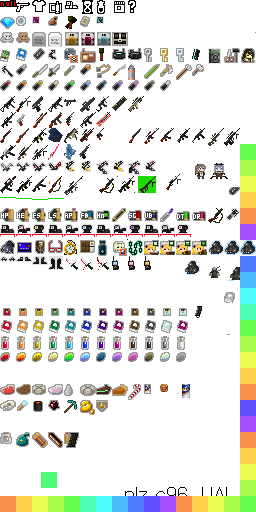
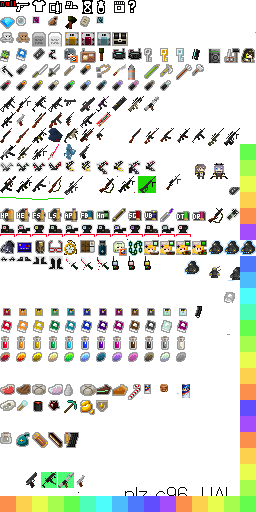
썬더 추가 및 텍스트 수정

Changed region(s): [[0.0938, 0.9062, 0.3438, 0.9688], [0.125, 0.1875, 0.1875, 0.25], [0.5625, 0.1875, 0.625, 0.2188]]

diff --git a/core/src/main/java/com/gfpixel/gfpixeldungeon/scenes/ChangesScene.java b/core/src/main/java/com/gfpixel/gfpixeldungeon/scenes/ChangesScene.java
@@ -173,12 +173,12 @@ public class ChangesScene extends PixelScene {
 						"_-_ 신규무기 게파드와 SRS가 추가됬습니다. 게파드는 무기를 장착하고 있을때 50구경의 데미지가 크게 올라갑니다.\n\n" +
 						"_-_ 소이탄, EMP탄,유탄이 삭제되고 50구경라는 아이템으로 바뀌었습니다. 삭제된 EMP탄과 소이탄은 솥에서 50구경과 씨앗을 조합해 만들 수 있습니다.\n\n" +
 						"_-_ PG 가스탄이 붕괴액으로 바뀌었습니다. 기존의 독가스 대신 붕괴가스를 발사하며, 붕괴가스에 노출되면 산성효과와 비슷한 피해를 입게됩니다.\n\n" +
-						"_-_ UMP45와 M16A1의 데미지가 소폭 상승했습니다. M16A1은 추가로 강화 효율과 방어율이 소폭 상승했습니다."));
+						"_-_ UMP45와 M16A1의 데미지가 소폭 상승했습니다. M16A1은 기습불가와 느린 공격속도가 삭제됐고 추가로 강화 효율과 방어율이 소폭 상승했습니다."));
 
 		changes.addButton( new ChangeButton(Icons.get(Icons.SHPX), "개발 관련",
 				"_-_ \"시스템 변경\n\n" +
 
-						"_-_ UI가 크게 개편됬습니다! 좀더 소녀전선에 가까운 UI를 만들기 위해 노력했습니다.\n\n" +
+						"_-_ UI가 크게 개편됐습니다! 좀더 소녀전선에 가까운 UI를 만들기 위해 노력했습니다.\n\n" +
 						"_-_ 힘 포션이 드랍되지 않는 도전모드가 추가됬습니다.\n\n" +
 						"_-_  새로운 뱃지들이 추가됬습니다.\n\n" +
 						"_-_ 투척무기가 개편됬습니다. 많은 투척무기가 추가되었고, 투척무기에 내구도 시스템이 적용됬습니다.\n\n" +

diff --git a/core/src/main/java/com/gfpixel/gfpixeldungeon/journal/Catalog.java b/core/src/main/java/com/gfpixel/gfpixeldungeon/journal/Catalog.java
@@ -94,9 +94,11 @@ import com.gfpixel.gfpixeldungeon.items.weapon.melee.AWP;
 import com.gfpixel.gfpixeldungeon.items.weapon.melee.Dragunov;
 import com.gfpixel.gfpixeldungeon.items.weapon.melee.C96;
 import com.gfpixel.gfpixeldungeon.items.weapon.melee.Gepard;
+import com.gfpixel.gfpixeldungeon.items.weapon.melee.Lar;
 import com.gfpixel.gfpixeldungeon.items.weapon.melee.M9;
 import com.gfpixel.gfpixeldungeon.items.weapon.melee.M99;
 import com.gfpixel.gfpixeldungeon.items.weapon.melee.SRS;
+import com.gfpixel.gfpixeldungeon.items.weapon.melee.Thunder;
 import com.gfpixel.gfpixeldungeon.items.weapon.melee.Welrod;
 import com.gfpixel.gfpixeldungeon.items.weapon.melee.Dp;
 import com.gfpixel.gfpixeldungeon.items.weapon.melee.AK47;
@@ -171,6 +173,7 @@ public enum Catalog {
 		WEAPONS.seen.put( Dp.class,                   false);
 		WEAPONS.seen.put( SR3.class,                   false);
 		WEAPONS.seen.put( SRS.class,                   false);
+		WEAPONS.seen.put( Thunder.class,				false);
 		WEAPONS.seen.put( Boomerang.class,                  false);
 		WEAPONS.seen.put( M16.class,                 false);
 		WEAPONS.seen.put( M1911.class,                    false);
@@ -197,6 +200,7 @@ public enum Catalog {
 		WEAPONS.seen.put( M99.class,                     false);
 		WEAPONS.seen.put( SakuraBlade.class,                   false);
 		WEAPONS.seen.put( SaigaPlate.class,                false);
+		WEAPONS.seen.put( Lar.class,         			       false);
 		WEAPONS.seen.put( SAIGA.class,                        false);
 		WEAPONS.seen.put( Mg42.class,                     false);
 		WEAPONS.seen.put( Ntw20.class,                   false);

diff --git a/core/src/main/java/com/gfpixel/gfpixeldungeon/items/weapon/melee/Thunder.java b/core/src/main/java/com/gfpixel/gfpixeldungeon/items/weapon/melee/Thunder.java
@@ -27,41 +27,19 @@ import com.gfpixel.gfpixeldungeon.actors.mobs.Mob;
 import com.gfpixel.gfpixeldungeon.sprites.ItemSpriteSheet;
 import com.watabou.utils.Random;
 
-public class Dp extends MeleeWeapon {
+public class Thunder extends MeleeWeapon {
 
     {
-        image = ItemSpriteSheet.DP;
+        image = ItemSpriteSheet.THUNDER;
 
         tier = 1;
-        DLY = 0.2f; //1time 10hit
-        ACC = 0.6f;
+        ACC = 0.09f;
+        DLY = 2f;
     }
 
     @Override
     public int max(int lvl) {
-        return  Math.round(2.1f*(tier+1)) +    //5 base, down from 20
-                lvl*Math.round(0.5f*(tier+1));   //+1 per level, down from +2
+        return  Math.round(5.5f*(tier+10)) +    //5 base, down from 20
+                lvl*Math.round(3.5f*(tier+1));   //+1 per level, down from +2
     }
-
-    @Override
-    public int damageRoll(Char owner) {
-        if (owner instanceof Hero) {
-            Hero hero = (Hero)owner;
-            Char enemy = hero.enemy();
-            if (enemy instanceof Mob && ((Mob) enemy).surprisedBy(hero)) {
-                //deals 85% toward max to max on surprise, instead of min to max.
-                int diff = max() - min();
-                int damage = augment.damageFactor(Random.NormalIntRange(
-                        min() + Math.round(diff*0.4f),
-                        max()));
-                int exStr = hero.STR() - STRReq();
-                if (exStr > 0) {
-                    damage -= Random.IntRange(0, exStr);
-                }
-                return damage;
-            }
-        }
-        return super.damageRoll(owner);
-    }
-
 }

diff --git a/core/src/main/java/com/gfpixel/gfpixeldungeon/sprites/ItemSpriteSheet.java b/core/src/main/java/com/gfpixel/gfpixeldungeon/sprites/ItemSpriteSheet.java
@@ -150,17 +150,19 @@ public class ItemSpriteSheet {
 	public static final int SR3             = WEP_TIER1+6;
 	public static final int CANNON         	= WEP_TIER1+7;
 	public static final int SRS         	= WEP_TIER1+8;
+	public static final int THUNDER         	= WEP_TIER1+9;
 	
 	static{
 		assignItemRect(UMP45, 	15, 16);
 		assignItemRect(DP,     	15, 16);
-		assignItemRect(M9,   	11, 16);
+		assignItemRect(M9,   	14, 16);
 		assignItemRect(UMP40, 	16, 16);
 		assignItemRect(DAGGER,  12, 13);
 		assignItemRect(G11,     15, 16);
 		assignItemRect(SR3,     15, 16);
 		assignItemRect(CANNON,  15, 15);
 		assignItemRect(SRS, 	16, 16);
+		assignItemRect(THUNDER, 	15, 15);
 	}
 
 	private static final int WEP_TIER2      =                               xy(1, 8);   //8 slots
@@ -175,7 +177,7 @@ public class ItemSpriteSheet {
 	static{
 		assignItemRect(M16,      15, 16);
 		assignItemRect(M1911,        12, 14);
-		assignItemRect(M1903,           16, 16);
+		assignItemRect(M1903,           14, 16);
 		assignItemRect(M1A1,    16, 16);
 		assignItemRect(NAGANTREVOLVER,            13, 14);
 		assignItemRect(G36,            16, 16);

diff --git a/core/src/main/java/com/gfpixel/gfpixeldungeon/actors/hero/HeroClass.java b/core/src/main/java/com/gfpixel/gfpixeldungeon/actors/hero/HeroClass.java
@@ -58,6 +58,7 @@ import com.gfpixel.gfpixeldungeon.items.wands.WandOfMagicMissile;
 import com.gfpixel.gfpixeldungeon.items.weapon.melee.Cannon;
 import com.gfpixel.gfpixeldungeon.items.weapon.melee.G11;
 import com.gfpixel.gfpixeldungeon.items.weapon.melee.M9;
+import com.gfpixel.gfpixeldungeon.items.weapon.melee.Thunder;
 import com.gfpixel.gfpixeldungeon.items.weapon.melee.TowProto;
 import com.gfpixel.gfpixeldungeon.items.weapon.melee.Ump45;
 import com.gfpixel.gfpixeldungeon.items.weapon.melee.Welrod;
@@ -135,8 +136,7 @@ public enum HeroClass {
 			Dungeon.LimitedDrops.SCROLL_HOLDER.drop();
 
 			new Cannon().identify().collect();
-			new DriedRose().identify().collect();
-			new TowProto().identify().collect();
+            new Thunder().identify().collect();
 			new ScrollOfUpgrade().identify().quantity(5).collect();
 			new StoneOfEnchantment().quantity(100).collect();
 			new ScrollOfMagicalInfusion().identify().quantity(10).collect();

diff --git a/core/src/main/java/com/gfpixel/gfpixeldungeon/items/weapon/melee/Mg42.java b/core/src/main/java/com/gfpixel/gfpixeldungeon/items/weapon/melee/Mg42.java
@@ -16,7 +16,7 @@ public class Mg42 extends MeleeWeapon {
         image = ItemSpriteSheet.MG42;
 
         tier = 6;
-        ACC = 0.6f;
+        ACC = 0.3f;
         DLY = 0.1f;
     }
 
@@ -35,7 +35,7 @@ public class Mg42 extends MeleeWeapon {
                 //deals 85% toward max to max on surprise, instead of min to max.
                 int diff = max() - min();
                 int damage = augment.damageFactor(Random.NormalIntRange(
-                        min() + Math.round(diff*0.5f),
+                        min() + Math.round(diff*0.4f),
                         max()));
                 int exStr = hero.STR() - STRReq();
                 if (exStr > 0) {

diff --git a/core/src/main/java/com/gfpixel/gfpixeldungeon/items/weapon/melee/Negev.java b/core/src/main/java/com/gfpixel/gfpixeldungeon/items/weapon/melee/Negev.java
@@ -33,7 +33,7 @@ public class Negev extends MeleeWeapon {
 		image = ItemSpriteSheet.NEGEV;
 
 		tier = 3;
-		ACC = 0.65f;
+		ACC = 0.4f;
 		DLY = 0.2f; //1time 5hit
 	}
 
@@ -52,7 +52,7 @@ public class Negev extends MeleeWeapon {
 				//deals 85% toward max to max on surprise, instead of min to max.
 				int diff = max() - min();
 				int damage = augment.damageFactor(Random.NormalIntRange(
-						min() + Math.round(diff*0.6f),
+						min() + Math.round(diff*0.4f),
 						max()));
 				int exStr = hero.STR() - STRReq();
 				if (exStr > 0) {

diff --git a/core/src/main/java/com/gfpixel/gfpixeldungeon/items/weapon/melee/M9.java b/core/src/main/java/com/gfpixel/gfpixeldungeon/items/weapon/melee/M9.java
@@ -29,12 +29,13 @@ public class M9 extends MeleeWeapon {
 		image = ItemSpriteSheet.M9;
 
 		tier = 1;
-		ACC = 0.5f;
+		ACC = 0.53f;
+        DLY = 0.333f;
 	}
 
 	@Override
 	public int max(int lvl) {
-		return  7*(tier+1) +    //20 base, down from 25
+		return  2*(tier+1) +    //20 base, down from 25
 				lvl*(tier);     //+4 per level, down from +5
 	}
 }
